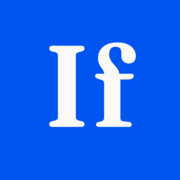
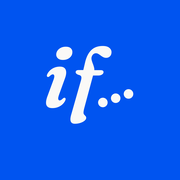
Use the shared If disc mark in the dashboard
Replace the If letter tile with the disc mark from the mobile app
(2ce995d): the nav shows the disc next to "Ensurance" in Figtree
SemiBold, and the favicon and Apple touch icon are the same disc.

Changed region(s): [[0.25, 0.2222, 0.7778, 0.7222]]

diff --git a/frontend/src/components/Nav.tsx b/frontend/src/components/Nav.tsx
@@ -1,8 +1,10 @@
 "use client";
 
+import Image from "next/image";
 import Link from "next/link";
 import { usePathname } from "next/navigation";
 import { Award, Calculator, FlaskConical, Home, Store, Users } from "lucide-react";
+import mark from "./mark.png";
 
 const links = [
   { href: "/", label: "Overview", Icon: Home },
@@ -20,10 +22,10 @@ export function Nav() {
     <nav className="border-b bg-card md:sticky md:top-0 md:h-screen md:w-[4.5rem] md:shrink-0 md:border-r md:border-b-0 lg:w-64">
       <div className="px-5 pt-5 pb-4 md:px-4 md:pt-6 md:pb-8 lg:px-5">
         <Link href="/" className="flex items-center gap-3">
-          {/* The monogram tile; src/app/favicon.ico and apple-icon.png are the same mark. */}
-          <span aria-hidden className="grid h-10 w-10 shrink-0 place-items-center rounded-[0.6rem] bg-primary pb-0.5 font-display text-xl font-semibold text-primary-foreground">If</span>
+          {/* The If disc mark, shared with the mobile app (mobile-app/assets/mark.png); favicon.ico and apple-icon.png are the same disc. */}
+          <Image src={mark} alt="If" width={40} height={40} priority className="h-10 w-10 shrink-0" />
           <span className="md:hidden lg:block">
-            <span className="block font-display text-xl leading-tight font-semibold text-primary">If <span className="font-normal italic">Ensurance</span></span>
+            <span className="block text-xl leading-tight font-semibold tracking-[-0.02em]">Ensurance</span>
             <span className="block text-sm text-muted-foreground">Staff dashboard</span>
           </span>
         </Link>
